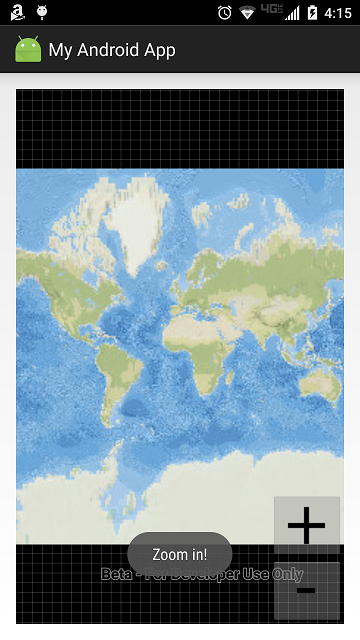
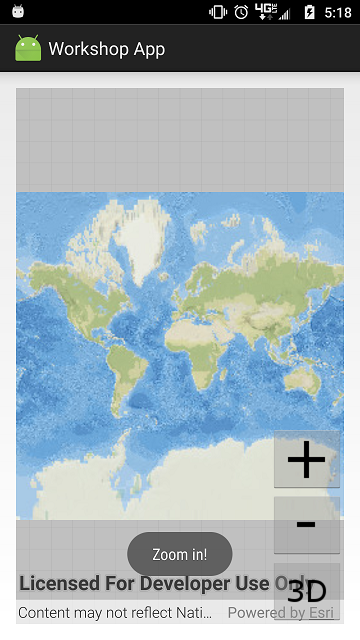
Added 3D to Android Exercise 2

diff --git a/runtime-workshop/solutions/Android/Ex2_ZoomButtons/app/src/main/java/com/esri/wdc/geodev/MainActivity.java b/runtime-workshop/solutions/Android/Ex2_ZoomButtons/app/src/main/java/com/esri/wdc/geodev/MainActivity.java
@@ -3,26 +3,53 @@ package com.esri.wdc.geodev;
 import android.app.Activity;
 import android.os.Bundle;
 import android.view.View;
+import android.view.ViewGroup;
+import android.widget.ImageButton;
+import android.widget.LinearLayout;
 
+import com.esri.arcgisruntime.geometry.Geometry;
+import com.esri.arcgisruntime.geometry.Point;
 import com.esri.arcgisruntime.mapping.ArcGISMap;
+import com.esri.arcgisruntime.mapping.ArcGISScene;
+import com.esri.arcgisruntime.mapping.ArcGISTiledElevationSource;
 import com.esri.arcgisruntime.mapping.Basemap;
+import com.esri.arcgisruntime.mapping.Viewpoint;
+import com.esri.arcgisruntime.mapping.view.Camera;
 import com.esri.arcgisruntime.mapping.view.MapView;
+import com.esri.arcgisruntime.mapping.view.SceneView;
+
+import java.util.logging.Level;
+import java.util.logging.Logger;
 
 public class MainActivity extends Activity {
+
+    // Exercise 1: Specify elevation service URL
+    private static final String ELEVATION_IMAGE_SERVICE =
+            "http://elevation3d.arcgis.com/arcgis/rest/services/WorldElevation3D/Terrain3D/ImageServer";
 
     // Exercise 1: Declare and instantiate fields
     private MapView mapView = null;
     private ArcGISMap map = new ArcGISMap();
+    private SceneView sceneView = null;
+    private ArcGISScene scene = new ArcGISScene();
+    private ImageButton imageButton_toggle2d3d = null;
+    private boolean threeD = false;
 
     @Override
     protected void onCreate(Bundle savedInstanceState) {
         super.onCreate(savedInstanceState);
         setContentView(R.layout.activity_main);
 
-        // Exercise 1: Set up the map
+        // Exercise 1: Set up the 2D map.
         mapView = (MapView) findViewById(R.id.mapView);
         map.setBasemap(Basemap.createNationalGeographic());
         mapView.setMap(map);
+
+        // Exercise 1: Set up the 3D scene.
+        sceneView = findViewById(R.id.sceneView);
+        scene.setBasemap(Basemap.createImagery());
+        sceneView.setScene(scene);
+        scene.getBaseSurface().getElevationSources().add(new ArcGISTiledElevationSource(ELEVATION_IMAGE_SERVICE));
     }
 
     /**
@@ -31,6 +58,7 @@ public class MainActivity extends Activity {
     @Override
     protected void onResume() {
         mapView.resume();
+        sceneView.resume();
         super.onResume();
     }
 
@@ -40,6 +68,7 @@ public class MainActivity extends Activity {
     @Override
     protected void onPause() {
         mapView.pause();
+        sceneView.pause();
         super.onPause();
     }
 
@@ -49,15 +78,32 @@ public class MainActivity extends Activity {
     @Override
     protected void onDestroy() {
         mapView.dispose();
+        sceneView.dispose();
         super.onDestroy();
     }
 
     /**
-     * Exercise 2: Listener for zoom out button.
-     * @param view The button.
+     * Exercise 1: Toggle between 2D map and 3D scene.
      */
-    public void imageButton_zoomOut_onClick(View view) {
-        zoom(0.5);
+    public void imageButton_toggle2d3d_onClick(View view) {
+        threeD = !threeD;
+        setWeight(mapView, threeD ? 1f : 0f);
+        setWeight(sceneView, threeD ? 0f : 1f);
+        if (null == imageButton_toggle2d3d) {
+            imageButton_toggle2d3d = findViewById(R.id.imageButton_toggle2d3d);
+        }
+        imageButton_toggle2d3d.setImageResource(threeD ? R.drawable.two_d : R.drawable.three_d);
+    }
+
+    /**
+     * Exercise 1: Set the weight of a View, e.g. to show or hide it.
+     */
+    private void setWeight(View view, float weight) {
+        final ViewGroup.LayoutParams params = view.getLayoutParams();
+        if (params instanceof LinearLayout.LayoutParams) {
+            ((LinearLayout.LayoutParams) params).weight = weight;
+        }
+        view.setLayoutParams(params);
     }
 
     /**
@@ -69,11 +115,47 @@ public class MainActivity extends Activity {
     }
 
     /**
+     * Exercise 2: Listener for zoom out button.
+     * @param view The button.
+     */
+    public void imageButton_zoomOut_onClick(View view) {
+        zoom(0.5);
+    }
+
+    /**
+     * Exercise 2: Zoom the 2D map.
+     */
+    private void zoomMap(double factor) {
+        mapView.setViewpointScaleAsync(mapView.getMapScale() / factor);
+    }
+
+    /**
+     * Exercise 2: Zoom the 3D scene.
+     */
+    private void zoomScene(double factor) {
+        Geometry target = sceneView.getCurrentViewpoint(Viewpoint.Type.CENTER_AND_SCALE).getTargetGeometry();
+        if (target instanceof Point) {
+            Camera camera = sceneView.getCurrentViewpointCamera()
+                    .zoomToward((Point) target, factor);
+            sceneView.setViewpointCameraAsync(camera, 0.5f);
+        } else {
+            // This shouldn't happen, but in case it does...
+            Logger.getLogger(MainActivity.class.getName()).log(Level.WARNING,
+                    "SceneView.getCurrentViewpoint returned {0} instead of {1}",
+                    new String[] { target.getClass().getName(), Point.class.getName() });
+        }
+    }
+
+    /**
      * Exercise 2: Zoom by a factor.
      * @param factor The zoom factor (0 to 1 to zoom out, > 1 to zoom in).
      */
     private void zoom(double factor) {
-        mapView.setViewpointScaleAsync(mapView.getMapScale() / factor);
+        if (threeD) {
+            zoomScene(factor);
+        } else {
+            zoomMap(factor);
+        }
     }
 
 }

diff --git a/runtime-workshop/exercises/Android/Exercise 2 Zoom Buttons.md b/runtime-workshop/exercises/Android/Exercise 2 Zoom Buttons.md
@@ -11,7 +11,7 @@ If you need some help, you can refer to [the solution to this exercise](../../so
 
 ## Add zoom in and zoom out buttons to the UI
 
-1. In `res/layout/activity_main.xml`, add to the `RelativeLayout` two buttons: one for zooming in, and one for zooming out, and place them in the lower right corner of the app (note: `zoom_out` and `zoom_in` refer to images that you copied in the previous step):
+1. In `res/layout/activity_main.xml`, add to the `RelativeLayout` two buttons: one for zooming in, and one for zooming out, and place them above the 2D/3D toggle button (note: `zoom_out` and `zoom_in` refer to images that you copied in the previous exercise):
 
     ```
     <ImageButton
@@ -19,7 +19,7 @@ If you need some help, you can refer to [the solution to this exercise](../../so
         android:layout_width="wrap_content"
         android:layout_height="wrap_content"
         android:layout_alignParentRight="true"
-        android:layout_alignParentBottom="true"
+        android:layout_above="@id/imageButton_toggle2d3d"
         android:src="@drawable/zoom_out"
         android:onClick="imageButton_zoomOut_onClick"/>
     <ImageButton
@@ -35,12 +35,12 @@ If you need some help, you can refer to [the solution to this exercise](../../so
 1. The XML you just added specifies an `onClick` method for each button. Create a `public void` method with a `View` parameter for each of those method names. For now, you can put a `Toast` in each method just to see that they run:
 
     ```
-    public void imageButton_zoomOut_onClick(View view) {
-        Toast.makeText(this, "Zoom out!", Toast.LENGTH_SHORT).show();
-    }
-    
     public void imageButton_zoomIn_onClick(View view) {
         Toast.makeText(this, "Zoom in!", Toast.LENGTH_SHORT).show();
+    }
+
+    public void imageButton_zoomOut_onClick(View view) {
+        Toast.makeText(this, "Zoom out!", Toast.LENGTH_SHORT).show();
     }
     ```
     
@@ -48,26 +48,54 @@ If you need some help, you can refer to [the solution to this exercise](../../so
 
     ![Zoom buttons](04-zoom-buttons.png)
 
-## Zoom in and out on the map
+## Zoom in and out on the map and the scene
 
-1. Rather than writing zoom logic in two places for zoom in and zoom out, put it in one new `private void` method called `zoom(double)` method. It's a good idea to name the parameter `factor`.
-    
-1. In your zoom button event handler methods, replace the `Toast` with a call to `zoom(double)` with a _factor_. Use a factor between 0 and 1 to zoom out, and use a factor greater than 1 to zoom in:
+1. In ArcGIS Runtime, zooming on a map and zooming on a scene use simple but quite different mechanisms. We'll talk more about those mechanisms later, but for now, get ready to zoom by creating an empty `private void zoomMap(double)` method and an empty `private void zoomScene(double)` method in your class. For each of these methods, it's a good idea to name the parameter `factor`.
+
+1. Rather than having your event handlers call `zoomMap` and `zoomScene` directly, you can simplify your code by creating a generic `zoom(double)` method that calls `zoomMap` or `zoomScene` depending on whether you're currently in 2D mode or 3D mode:
 
     ```
-    public void imageButton_zoomOut_onClick(View view) {
-        zoom(0.5);
+    private void zoom(double factor) {
+        if (threeD) {
+            zoomScene(factor);
+        } else {
+            zoomMap(factor);
+        }
     }
+    ```
+    
+1. In your zoom button event handler methods, replace the `Toast`s with a call to `zoom(double)` with a _factor_. Use a factor between 0 and 1 to zoom out, and use a factor greater than 1 to zoom in:
 
-    public void imageButton_zoomIn_onClick(View view) {
+    ```
+    private void imageButton_zoomIn_onAction() {
         zoom(2.0);
     }
-    ```
     
-1. For the ArcGIS Runtime `MapView`, the zoom mechanism is relatively simple: get the map scale, divide it by a factor, and use the quotient to set the `MapView`'s viewpoint scale. Write the code for this operation inside the `zoom(double)` method:
+    private void imageButton_zoomOut_onAction() {
+        zoom(0.5);
+    }
+    ```
+
+1. For the ArcGIS Runtime 2D `MapView`, the zoom mechanism is relatively simple: get the map scale, divide it by a factor, and use the quotient to set the `MapView`'s viewpoint scale. Write the code for this operation inside the `zoomMap(double)` method:
 
     ```
     mapView.setViewpointScaleAsync(mapView.getMapScale() / factor);
+    ```
+    
+1. 3D is awesome, but it is almost always more complicated than 2D, and zooming is no exception. ArcGIS Runtime's 3D `SceneView` uses a _viewpoint_ with a _camera_ to change the user's view of the scene. Objects of type `Camera` are immutable and have a fluent API, so you can get a copy of the `SceneView`'s current viewpoint camera, use a factor to move it toward or away from the camera's current target, and use it as the `SceneView`'s new viewpoint camera. You can even animate the camera's movement and specify the duration of the animated camera movement (the code that follows uses `0.5f` to animate for half a second). In this case, we will use the `Camera`'s `zoomToward` method to create a new `Camera`. Add the following code to your `zoomScene(double)` method. As you do, make sure you import `com.esri.arcgisruntime.geometry.Point` and `com.esri.arcgisruntime.mapping.view.Camera` instead of some other `Point` and `Camera` classes:
+
+    ```
+    Geometry target = sceneView.getCurrentViewpoint(Viewpoint.Type.CENTER_AND_SCALE).getTargetGeometry();
+    if (target instanceof Point) {
+        Camera camera = sceneView.getCurrentViewpointCamera()
+                .zoomToward((Point) target, factor);
+        sceneView.setViewpointCameraAsync(camera, 0.5f);
+    } else {
+        // This shouldn't happen, but in case it does...
+        Logger.getLogger(MainActivity.class.getName()).log(Level.WARNING,
+                "SceneView.getCurrentViewpoint returned {0} instead of {1}",
+                new String[] { target.getClass().getName(), Point.class.getName() });
+    }
     ```
     
 1. Run your app. Verify that the zoom in and out buttons work.
@@ -76,6 +104,6 @@ If you need some help, you can refer to [the solution to this exercise](../../so
 
 If you have trouble, **refer to the solution code**, which is linked near the beginning of this exercise. You can also **submit an issue** in this repo to ask a question or report a problem. If you are participating live with Esri presenters, feel free to **ask a question** of the presenters.
 
-If you completed the exercise, congratulations! You learned how to add buttons that programmatically zoom in and out on a map.
+If you completed the exercise, congratulations! You learned how to add buttons that programmatically zoom in and out on a 2D map and a 3D scene.
 
 Ready for more? Start on [**Exercise 3: Add a Feature Layer**](Exercise%203%20Local%20Feature%20Layer.md).
